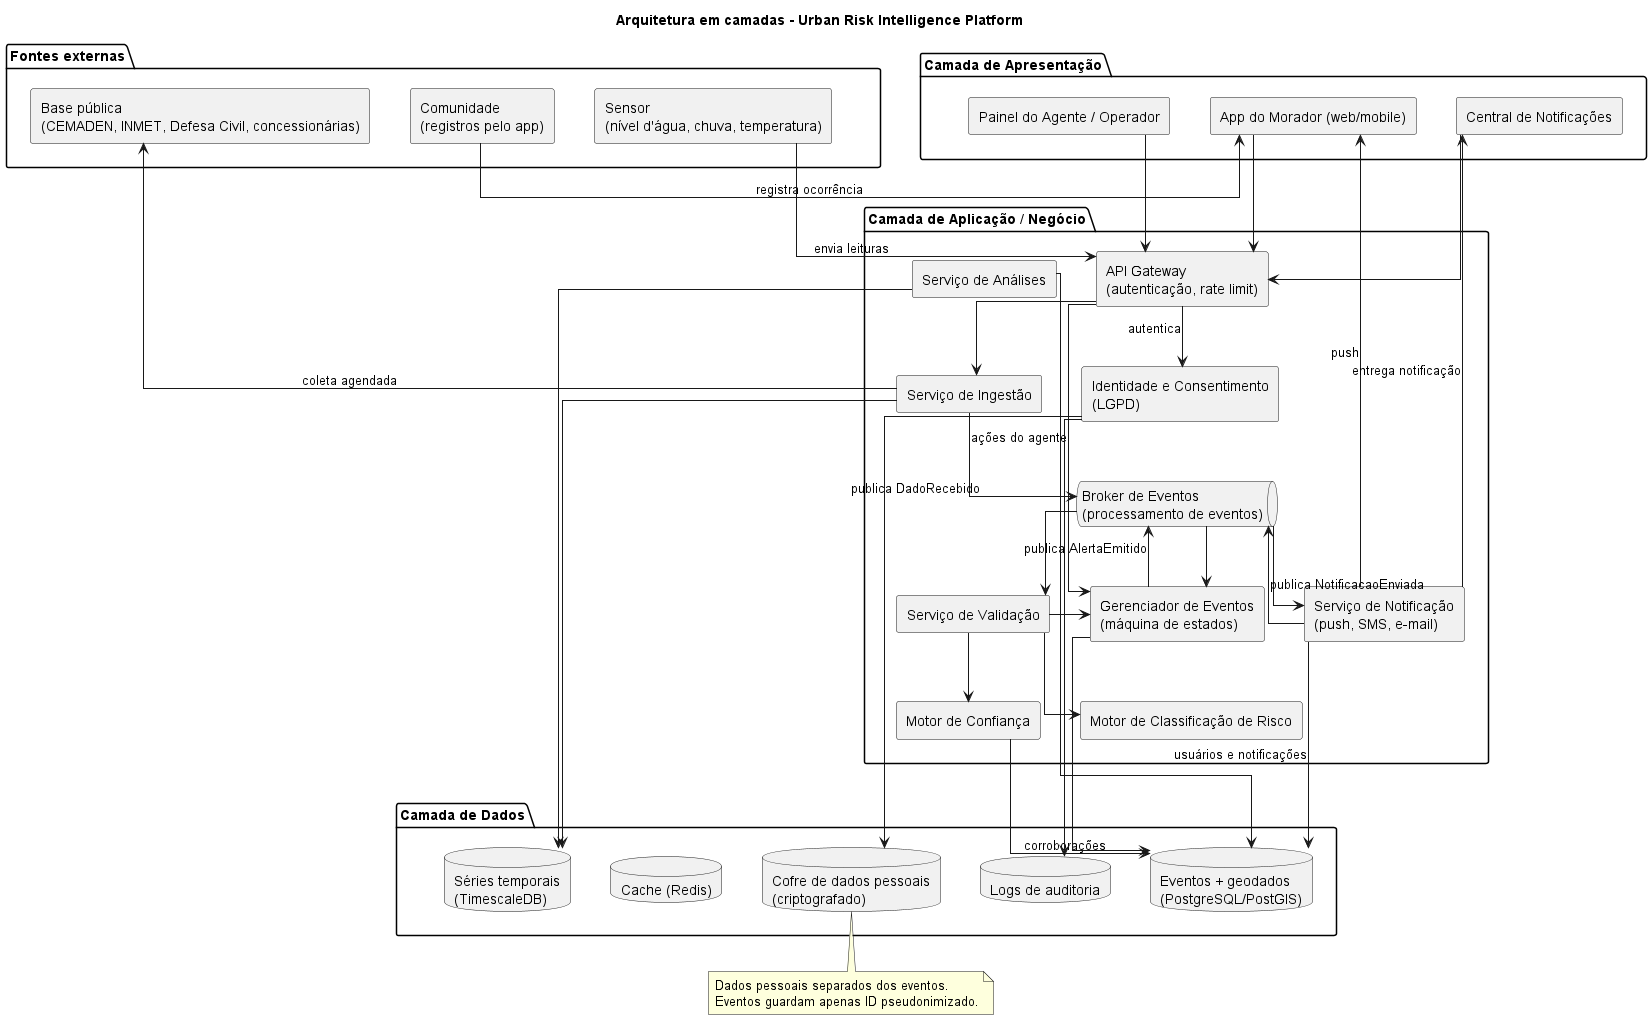
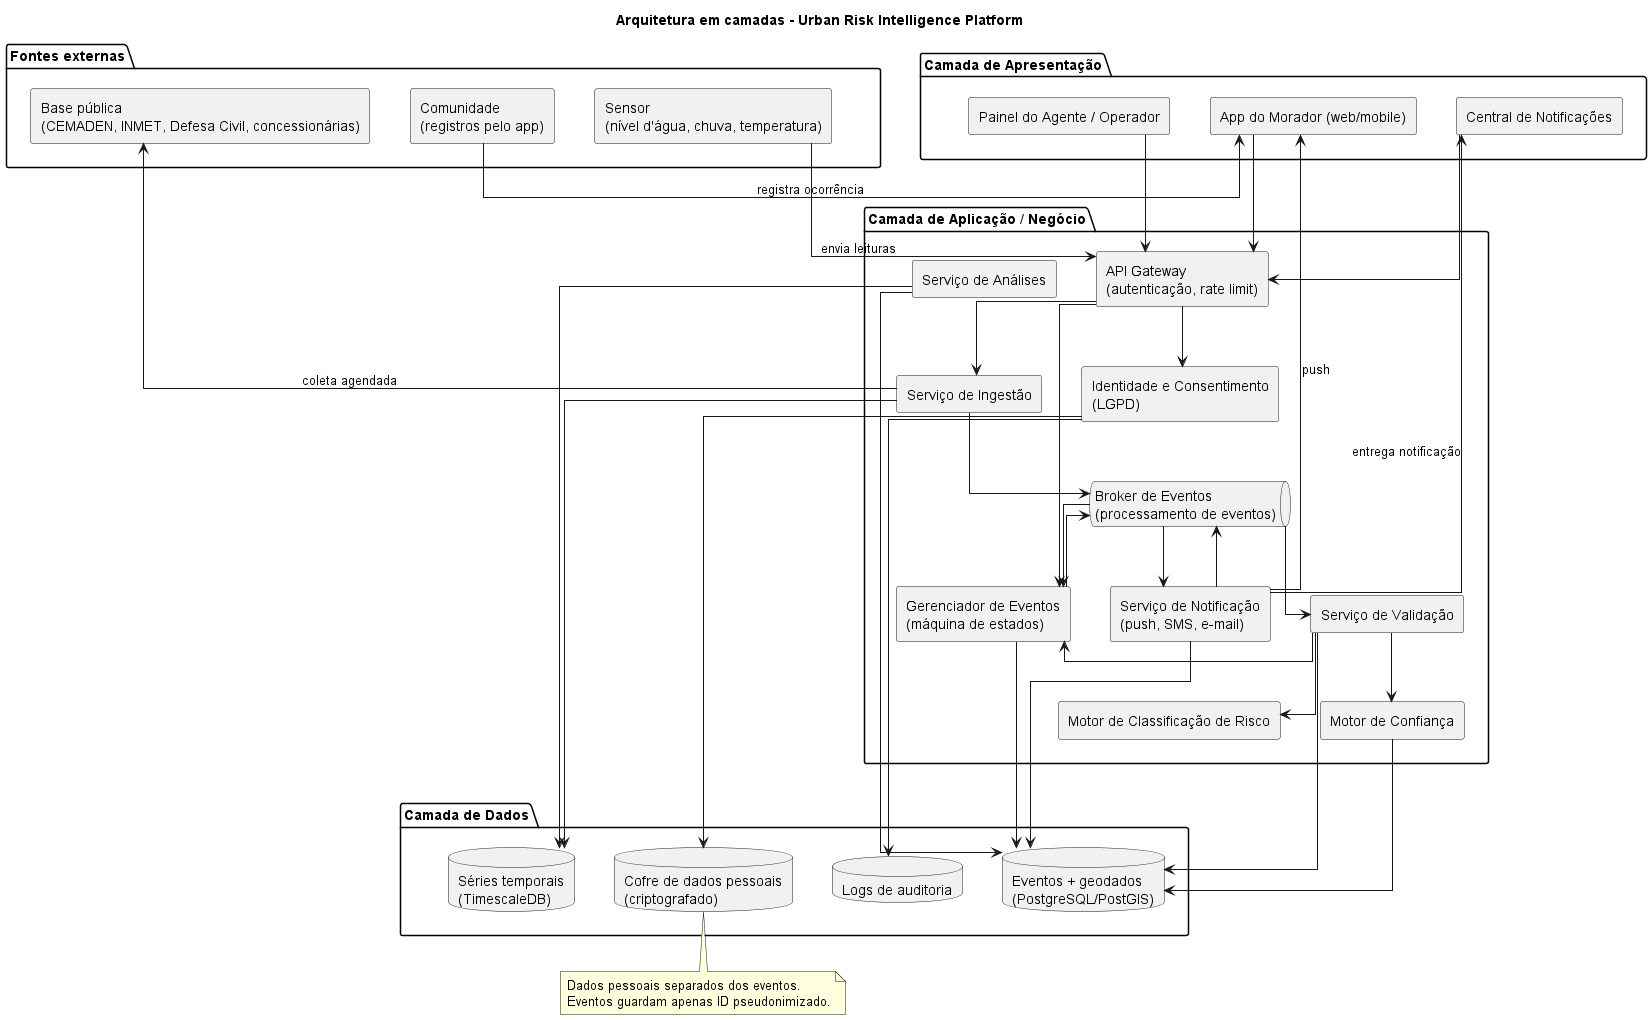
Arquitetura sem rótulos internos e caminho do alerta documentado
- arquitetura.puml: rótulos só nas setas que cruzam camadas; Cache
  (Redis) removido; nova seta Serviço de Validação -> BD.
- docs/02-arquitetura.md: imagem do diagrama e caminho de um alerta
  em 7 passos.
- estados.puml: notificarCancelamento (se houve alerta) ao descartar
  a partir de Em monitoramento.
- RF13: persona Todas.
- PNG dos três diagramas atualizados.

diff --git a/docs/01-requisitos.md b/docs/01-requisitos.md
@@ -67,7 +67,7 @@ evento que tem estado, risco, confiança e prioridade.
 | RF10 | O sistema deve enviar notificações (push, SMS ou e-mail) aos usuários cuja área de interesse foi afetada, conforme a regra RN06, e avisar do cancelamento quem recebeu um alerta cancelado. | Alta       | Ana             | Central de notificações                            |
 | RF11 | O sistema deve manter uma central de notificações com histórico, status lida/não lida e filtros por tipo, incluindo o tipo "Alerta cancelado".          | Média      | Ana             | Central de notificações                            |
 | RF12 | O sistema deve permitir que o agente confirme, descarte ou encerre um evento e cancele um alerta já emitido.                                            | Alta       | Carlos          | Fila de validação, Detalhe do alerta               |
-| RF13 | O sistema deve permitir que o usuário defina áreas de interesse por bairro ou por ponto no mapa com raio (ex.: 1 km), além de tipos de risco e canais de alerta. | Média      | Ana             | Preferências                                       |
+| RF13 | O sistema deve permitir que o usuário defina áreas de interesse por bairro ou por ponto no mapa com raio (ex.: 1 km), além de tipos de risco e canais de alerta. | Média      | Todas           | Preferências                                       |
 | RF14 | O sistema deve gerar análises históricas de eventos por tipo de risco, região e período.                                                                | Média      | Carlos, Juliana | Análises                                           |
 | RF15 | O sistema deve autenticar usuários e aplicar perfis de acesso (morador, agente, operador).                                                              | Alta       | Todas           | Login / Cadastro, Perfil                           |
 | RF16 | O sistema deve permitir que o titular consulte, exporte e exclua seus dados pessoais e revogue consentimentos.                                          | Média      | Todas           | Login / Cadastro, Privacidade e meus dados         |

diff --git a/docs/02-arquitetura.md b/docs/02-arquitetura.md
@@ -1,0 +1,24 @@
+# Arquitetura em camadas
+
+**Urban Risk Intelligence Platform** · Diagrama-fonte: [diagramas/arquitetura.puml](diagramas/arquitetura.puml)
+
+![Arquitetura em camadas](diagramas/arquitetura.png)
+
+## Caminho de um alerta
+
+1. O **Sensor** envia a leitura ao **API Gateway**, que autentica a origem no **Identidade e
+   Consentimento (LGPD)**. Dados de **Base pública** são buscados pelo **Serviço de Ingestão**
+   (coleta agendada); registros da **Comunidade** chegam pelo **App do Morador**.
+2. O **Serviço de Ingestão** normaliza o dado, pseudonimiza os dados pessoais e publica
+   `DadoRecebido` no **Broker de Eventos**.
+3. O **Serviço de Validação** consome o dado, confere formato, faixa e duplicidade e chama o
+   **Motor de Confiança**, que busca corroborações no banco, e o **Motor de Classificação de Risco**.
+4. O **Gerenciador de Eventos** agrupa o dado no evento (RN04, RN07), salva e define o estado:
+   **Confirmado** (confiança ≥ 75), **Em validação** (50–74, Carlos decide pelo **Painel do
+   Agente / Operador**) ou **Reportado** (< 50).
+5. Com o evento **Confirmado** e risco **≥ Alto**, o **Gerenciador de Eventos** passa o evento para
+   **Alerta emitido** e publica `AlertaEmitido` no **Broker de Eventos**.
+6. O **Serviço de Notificação** busca no banco quem tem área de interesse no raio afetado (RN06),
+   envia o push ao **App do Morador** e registra a notificação na **Central de Notificações**.
+7. O **Serviço de Notificação** publica `NotificacaoEnviada`, e o **Gerenciador de Eventos** passa
+   o evento para **Em monitoramento**.
